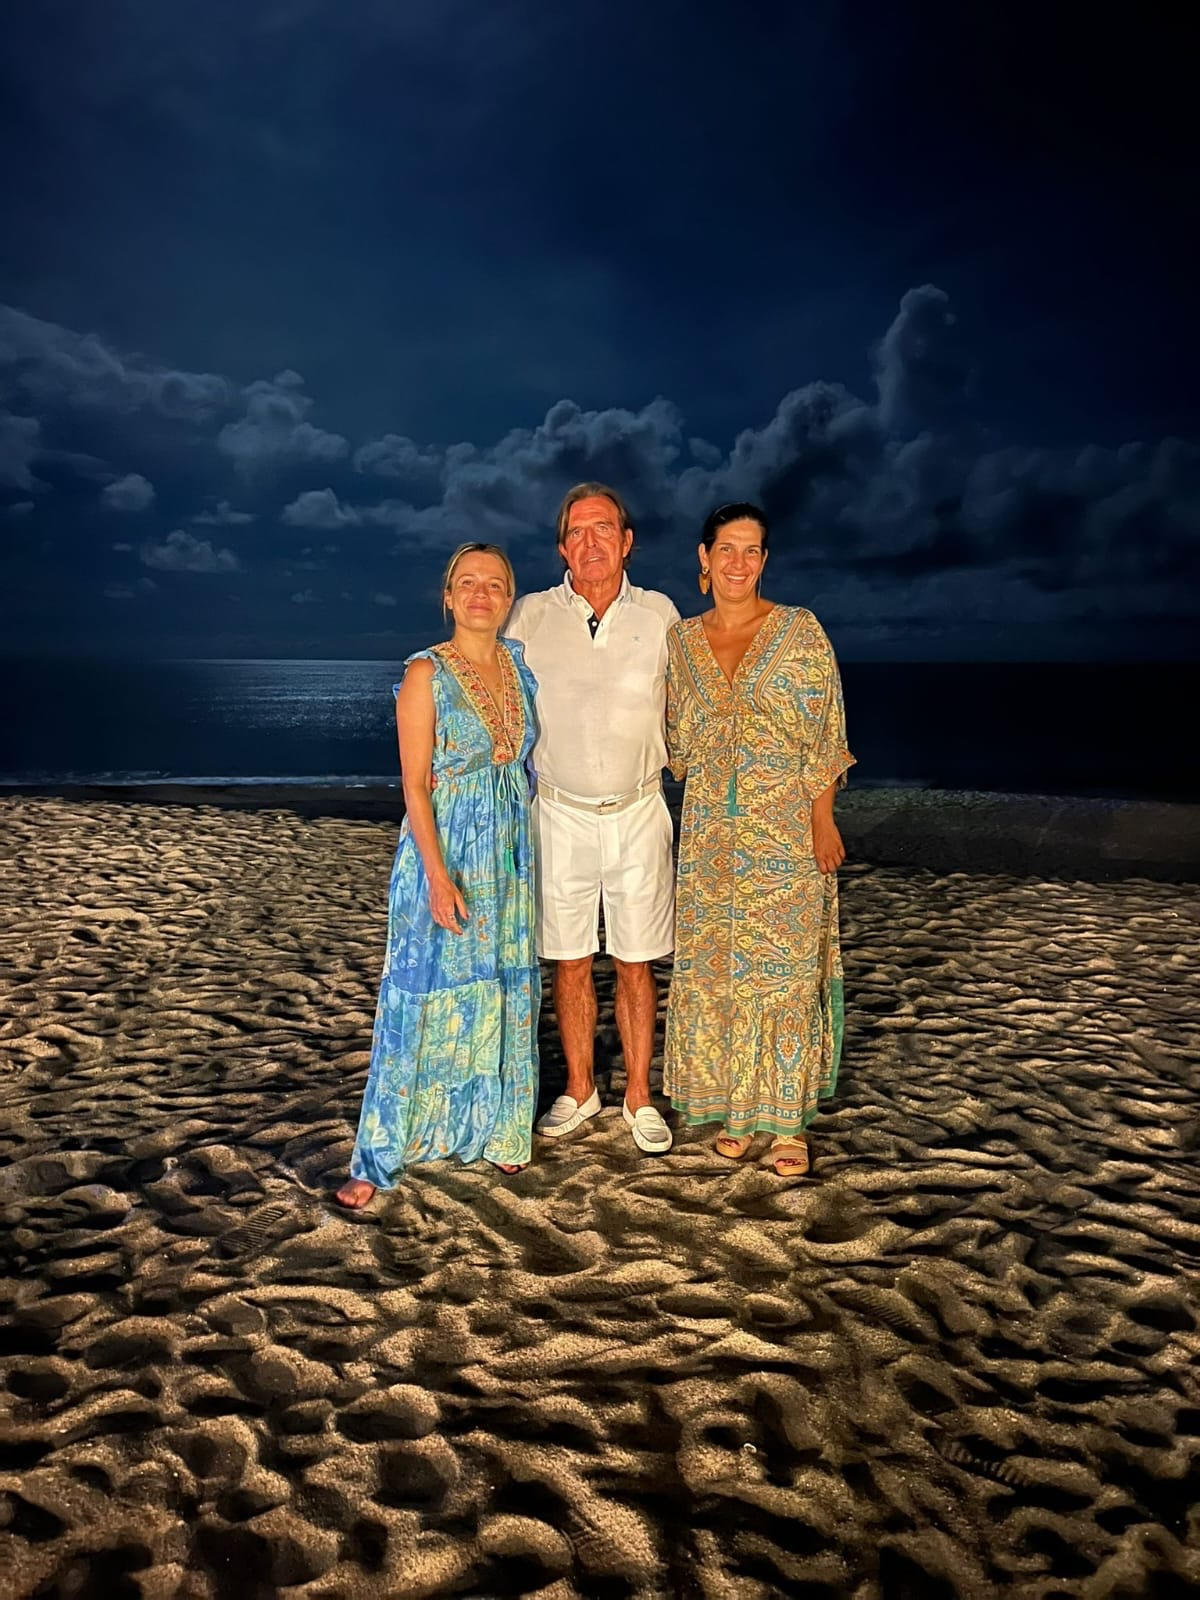
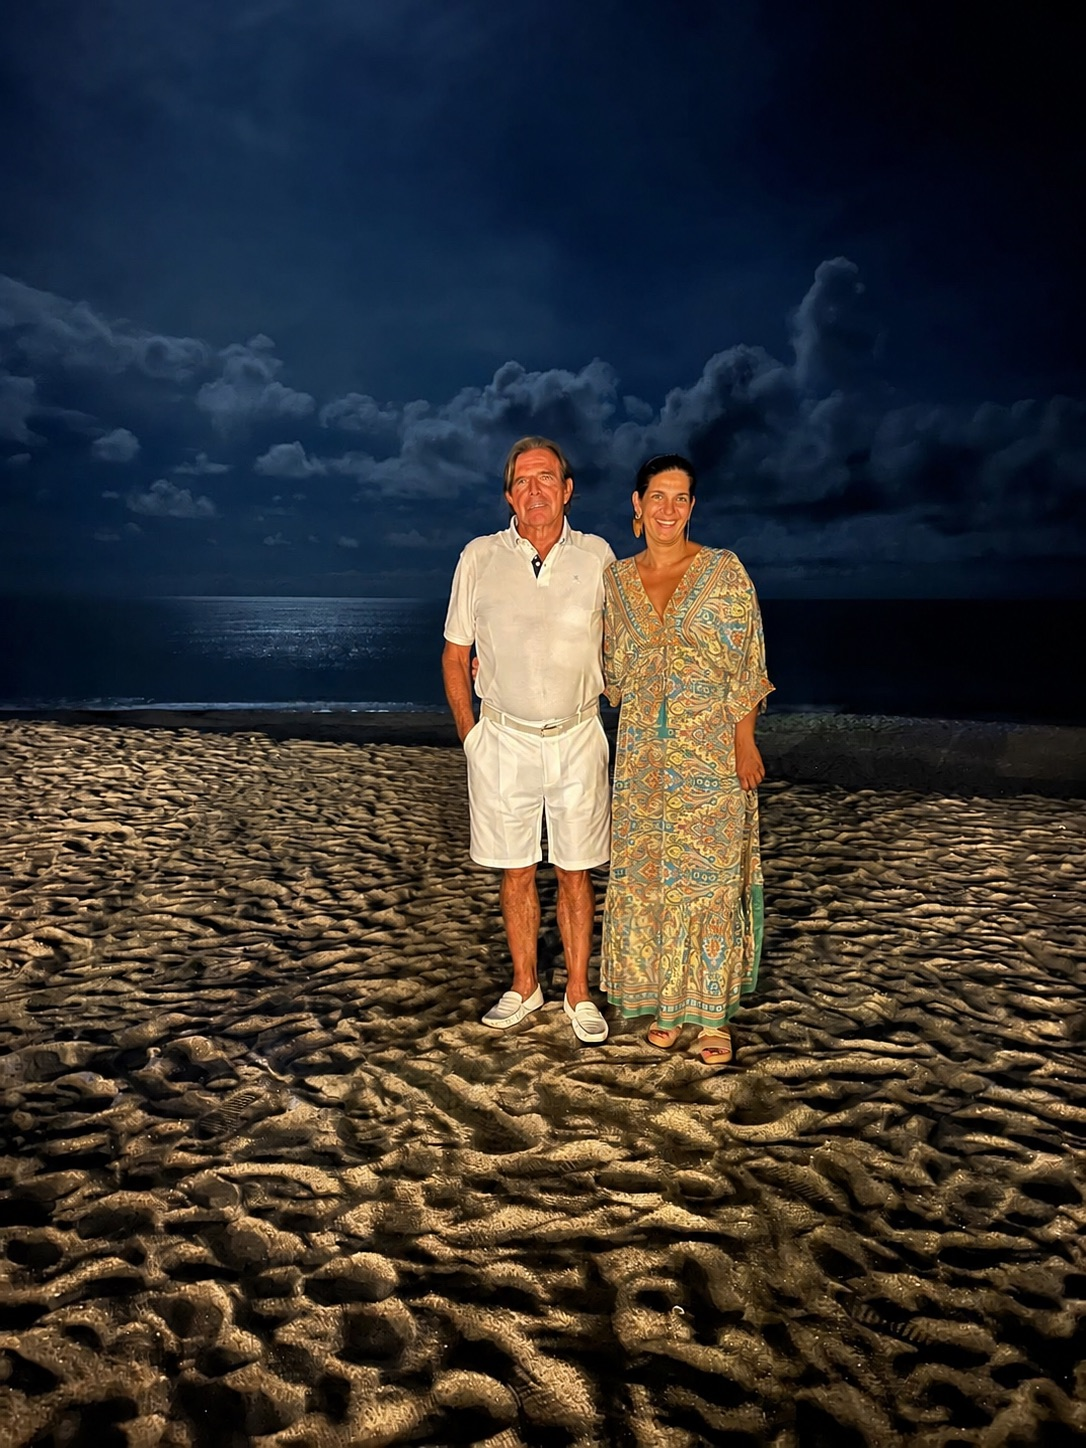
Reemplaza portada de Marce con foto ya recortada
Foto nueva (1086×1448) muestra solo papa + Marce — sin Alissa.
Ya no necesita objectPosition "75% center"; vuelve a "center".

diff --git a/src/data/cumpleanos.ts b/src/data/cumpleanos.ts
@@ -49,7 +49,7 @@ export const TARJETAS_CUMPLE: TarjetaCumple[] = [
     },
     coverImage: {
       src: '/images/cumpleanos/marce-papa.jpg',
-      objectPosition: '75% center',
+      objectPosition: 'center',
       alt: 'Marce y Alejandro en la playa al anochecer'
     }
   }
